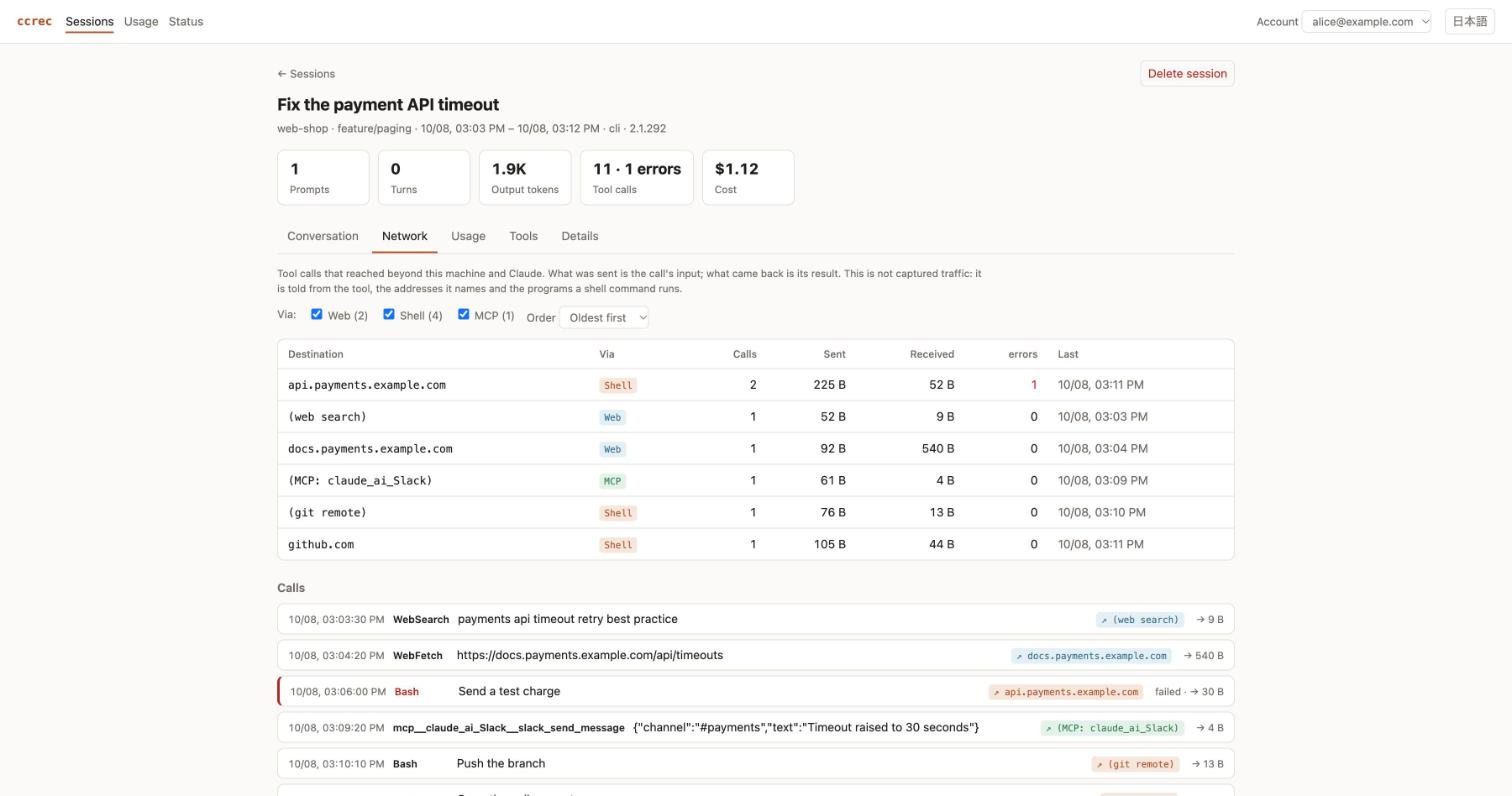
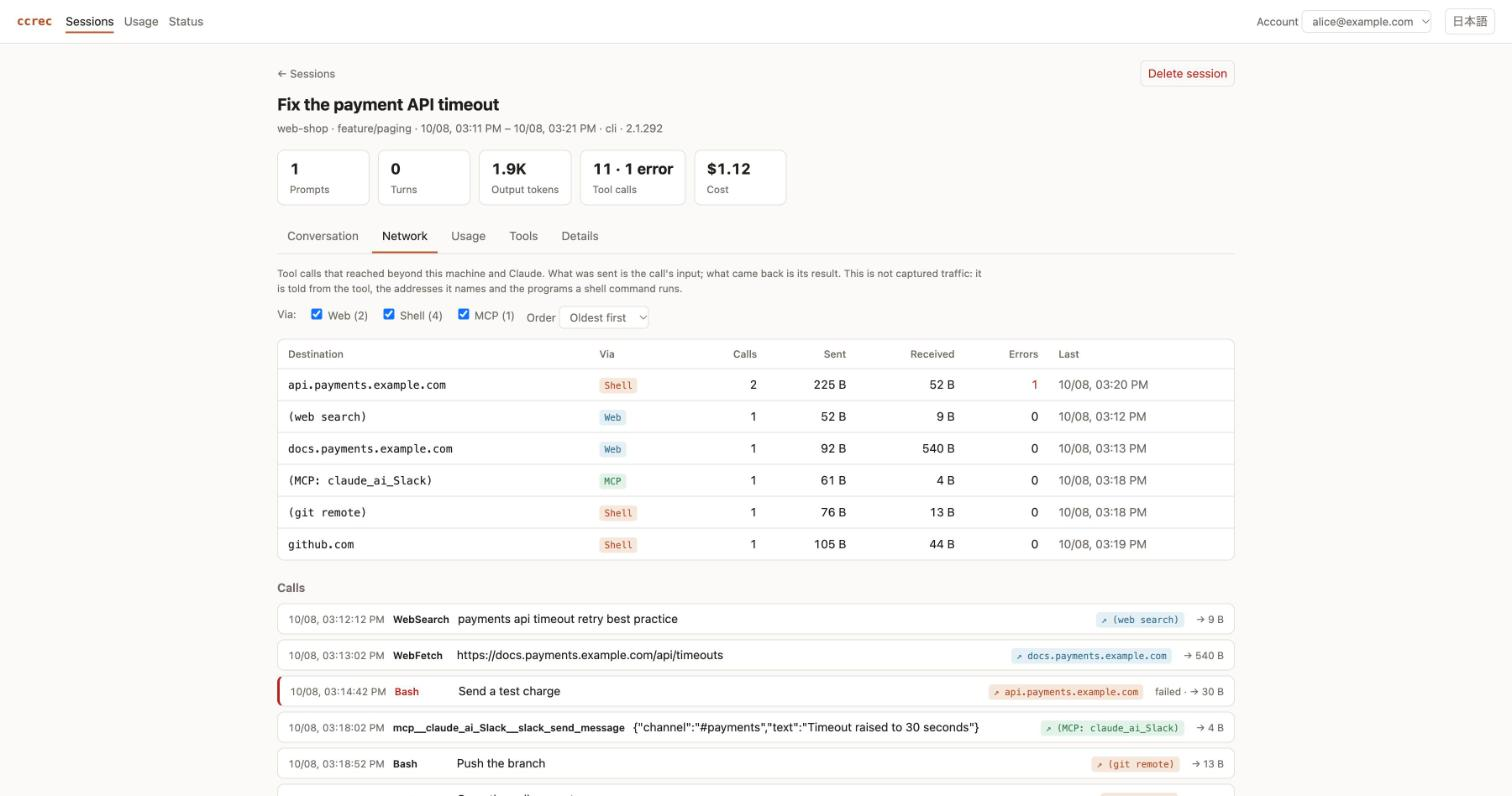
fix: say "1 error", and head the column "Errors"
In English the UI said "5 · 1 errors" and headed two tables' column
"errors" in lower case beside "Calls". The count now has a singular,
and the heading a capital. The command line's "deleted 1 sessions" gets
its singular too. The two English screenshots that showed it are retaken.

diff --git a/engine/src/main/resources/ui/app.js b/engine/src/main/resources/ui/app.js
@@ -117,6 +117,7 @@ const TEXT = {
     turns: 'ターン',
     toolCalls: 'ツール呼び出し',
     errors: 'エラー',
+    errorCount: (n) => `${n} エラー`,
     compactions: '圧縮',
     pullRequests: 'PR',
     prompts: 'プロンプト',
@@ -312,7 +313,8 @@ const TEXT = {
     back: '← Sessions',
     turns: 'Turns',
     toolCalls: 'Tool calls',
-    errors: 'errors',
+    errors: 'Errors',
+    errorCount: (n) => (n === 1 ? '1 error' : `${n} errors`),
     compactions: 'Compactions',
     pullRequests: 'PRs',
     prompts: 'Prompts',
@@ -932,7 +934,7 @@ async function drawSession(view, sessionId, turn) {
       stat(whole(summary.prompts), t('prompts')),
       stat(`${whole(summary.turns)}${summary.turns ? ` · ${duration(summary.turnDurationMs)}` : ''}`, t('turns')),
       stat(compact(output), `${t('output')} ${t('tokens')}`),
-      stat(`${whole(calls)}${failures ? ` · ${failures} ${t('errors')}` : ''}`, t('toolCalls')),
+      stat(`${whole(calls)}${failures ? ` · ${t('errorCount', failures)}` : ''}`, t('toolCalls')),
       summary.subAgents ? stat(whole(summary.subAgents), t('subAgents')) : null,
       summary.compactions ? stat(whole(summary.compactions), t('compactions')) : null,
       summary.pullRequests.length ? stat(whole(summary.pullRequests.length), t('pullRequests')) : null,

diff --git a/engine/src/main/java/dev/ccrec/cli/Main.java b/engine/src/main/java/dev/ccrec/cli/Main.java
@@ -368,7 +368,8 @@ public final class Main {
           }
         }
         if (cutoff != null) {
-          out.printf("deleted %d sessions  records=%d  contents=%d%n", sessionIds.size() - missing, records, contents);
+          int gone = sessionIds.size() - missing;
+          out.printf("deleted %d session%s  records=%d  contents=%d%n", gone, gone == 1 ? "" : "s", records, contents);
         }
       }
     }
